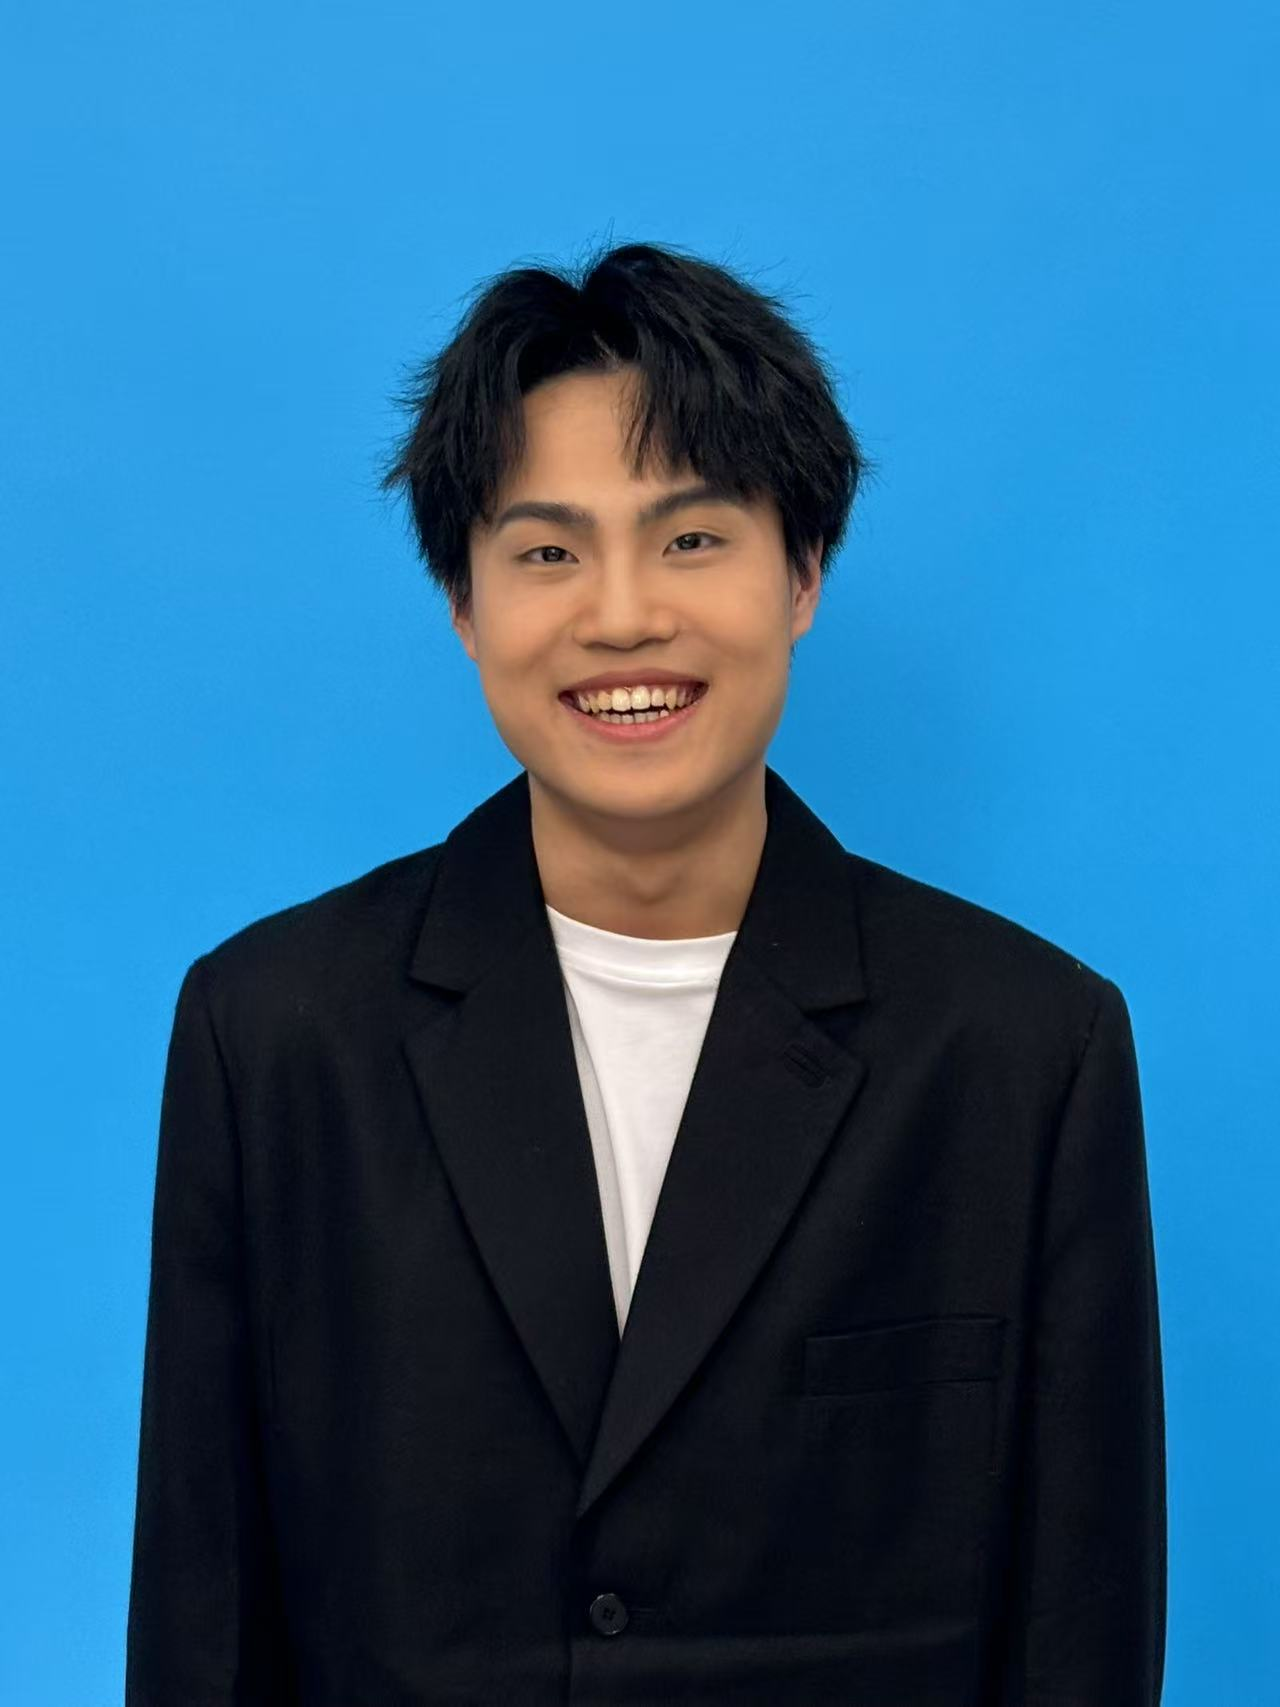
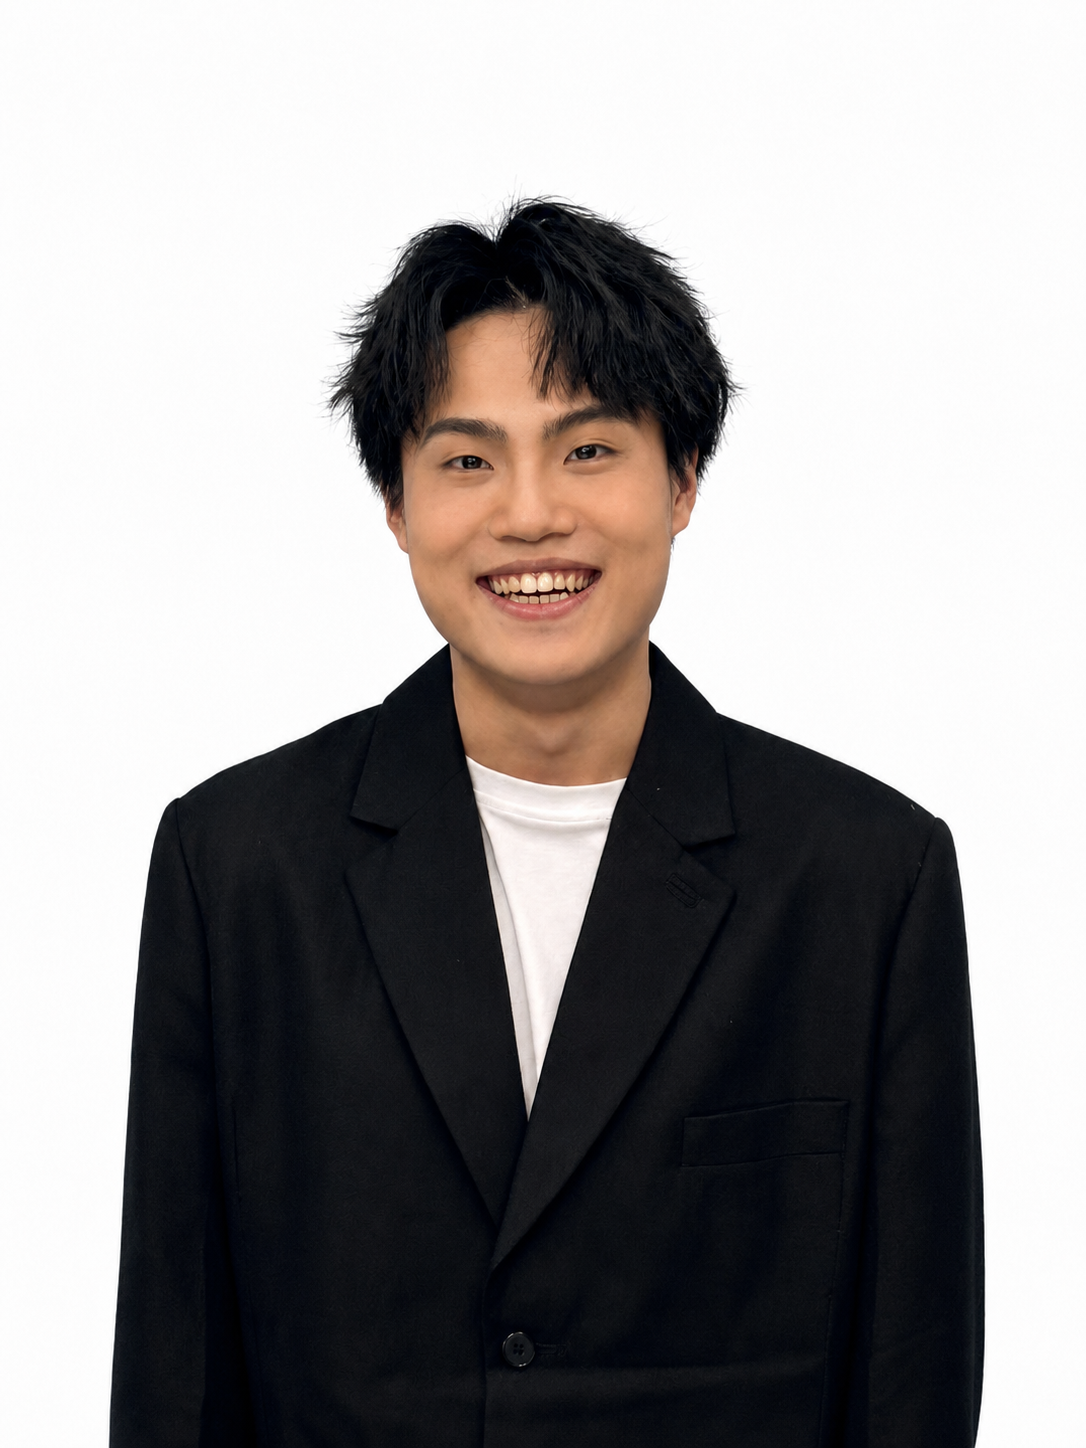
update

diff --git a/_includes/author-profile.html b/_includes/author-profile.html
@@ -6,13 +6,39 @@
 
 <div itemscope itemtype="http://schema.org/Person">
 
+  {% assign author_avatar = author.avatar %}
+  {% if author.avatars %}
+    {% assign author_avatar = author.avatars | first %}
+    {% capture random_avatar_paths %}{% for avatar in author.avatars %}{% if forloop.first == false %}|{% endif %}{% if avatar contains "://" %}{{ avatar }}{% else %}{{ avatar | prepend: "/images/" | prepend: base_path }}{% endif %}{% endfor %}{% endcapture %}
+  {% endif %}
+
   <div class="author__avatar">
-    {% if author.avatar contains "://" %}
-    	<img src="{{ author.avatar }}" alt="{{ author.name }}"  fetchpriority="high" />
+    {% if author_avatar contains "://" %}
+      <img src="{{ author_avatar }}" alt="{{ author.name }}" fetchpriority="high"{% if author.avatars %} data-random-avatars="{{ random_avatar_paths | strip | escape }}"{% endif %} />
     {% else %}
-    	<img src="{{ author.avatar | prepend: "/images/" | prepend: base_path }}" class="author__avatar" alt="{{ author.name }}"  fetchpriority="high" />
+      <img src="{{ author_avatar | prepend: "/images/" | prepend: base_path }}" class="author__avatar" alt="{{ author.name }}" fetchpriority="high"{% if author.avatars %} data-random-avatars="{{ random_avatar_paths | strip | escape }}"{% endif %} />
     {% endif %}
   </div>
+
+  {% if author.avatars %}
+  <script>
+    (function () {
+      var script = document.currentScript;
+      var wrapper = script && script.previousElementSibling;
+      var image = wrapper && wrapper.querySelector("img[data-random-avatars]");
+      if (!image) {
+        return;
+      }
+
+      var avatars = image.getAttribute("data-random-avatars").split("|").filter(Boolean);
+      if (avatars.length < 2) {
+        return;
+      }
+
+      image.src = avatars[Math.floor(Math.random() * avatars.length)];
+    }());
+  </script>
+  {% endif %}
 
   <div class="author__content">
     <h3 class="author__name">{{ author.name }}</h3>

diff --git a/_pages/about.md b/_pages/about.md
@@ -10,9 +10,10 @@ redirect_from:
 
 <div class="about-intro" markdown="1">
 
-I am currently an M.S. student in Electrical and Computer Engineering at Carnegie Mellon University. My research interests lie in Embodied AI and multimodal foundation models for robotics, focusing on building vision-language agents that can understand human instructions, interpret visual observations, and produce semantically aligned and physically executable behavior in embodied environments. In particular, I am interested in developing model designs and learning algorithms that improve the performance, efficiency, reliability, and safety of embodied agents. 
+I am currently an M.S. student in Electrical and Computer Engineering at Carnegie Mellon University. My research interests lie in Embodied AI, focusing on building vision-language agents that can understand natural language instructions, interpret visual observations, and produce semantically aligned and physically executable behavior in embodied environments. 
+<!-- In particular, I am interested in developing model designs and learning algorithms that improve the performance, efficiency, reliability, and safety of embodied agents.  -->
 
-At CMU, I am working with Dr. [Ji Zhang](https://frc.ri.cmu.edu/~zhangji/) and Dr. [Wenshan Wang](http://www.wangwenshan.com/) on Embodied AI, with a focus on Vision-and-Language Navigation. Before joining CMU, I received my B.Eng. degree in Computer Science and Technology from Xi'an Jiaotong-Liverpool University in 2025. During my undergraduate studies, I focused on computer vision and was fortunate to work with Prof. [Guangliang Cheng](https://sites.google.com/view/guangliangcheng/homepage), Prof. [Wei Wang](https://scholar.xjtlu.edu.cn/en/persons/WeiWang03), and Prof. [Ming Xu](https://scholar.xjtlu.edu.cn/en/persons/MingXu).
+At CMU, I am working with Dr. [Ji Zhang](https://frc.ri.cmu.edu/~zhangji/) and Dr. [Wenshan Wang](http://www.wangwenshan.com/) on Embodied Navigation. Before joining CMU, I received my B.Eng. degree in Computer Science and Technology from Xi'an Jiaotong-Liverpool University in 2025. During my undergraduate studies, I focused on computer vision and worked with Prof. [Guangliang Cheng](https://sites.google.com/view/guangliangcheng/homepage), Prof. [Wei Wang](https://scholar.xjtlu.edu.cn/en/persons/WeiWang03), and Prof. [Ming Xu](https://scholar.xjtlu.edu.cn/en/persons/MingXu).
 
 My resume can be found [here](https://github.com/BaoBao0926/BaoBao0926.github.io/blob/master/assets/Muyi%20Bao%20CV.pdf) (updated in 2026.07.20) and my email is [muyib@andrew.cmu.edu](mailto:muyib@andrew.cmu.edu).
 
@@ -20,7 +21,7 @@ My resume can be found [here](https://github.com/BaoBao0926/BaoBao0926.github.io
 
 
 <p style="color:red;">
-I am actively looking for Ph.D. opportunities starting in Fall 2027, with research interests in Embodied AI and multimodal foundation models for robotics.
+I am actively looking for Ph.D. opportunities starting in Fall 2027, with research interests in Embodied AI.
 </p>
 
 
@@ -35,7 +36,7 @@ I am actively looking for Ph.D. opportunities starting in Fall 2027, with resear
   <li><strong>[2025/06]</strong> 🎓 I received my B.Eng. degree in Computer Science and Technology from Xi'an Jiaotong-Liverpool University.</li>
   <li><strong>[2025/02]</strong> 📄 <a href="https://github.com/BaoBao0926/AlexCapsNet">AlexCapsNet</a> was accepted by <em>IEEE Access</em>.</li>
   <li><strong>[2024/12]</strong> 📄 <a href="https://github.com/BaoBao0926/Comparative-Performance-Analysis-of-Rendering-Optimization-Method">Performance Analysis of Rendering Optimization</a> was accepted by <em>UIC 2024</em>.</li>
-  <li><strong>[2021/06]</strong> 🎓 I joined Xi'an Jiaotong Liverpool Unverisity as a Bachelor of Engineering in Computer Science and Technology .</li>
+  <li><strong>[2021/06]</strong> 🎓 I joined Xi'an Jiaotong Liverpool Unverisity as a Bachelor of Engineering in Computer Science and Technology.</li>
 </ul>
 
 <style>
@@ -266,6 +267,8 @@ I am actively looking for Ph.D. opportunities starting in Fall 2027, with resear
           <a href="https://anonymous.4open.science/w/IntentNav/">
             Project Page
           </a>
+          &nbsp;/&nbsp;
+          <a href="https://arxiv.org/abs/2606.08029">Paper</a>
         </div>
       </td>
     </tr>
